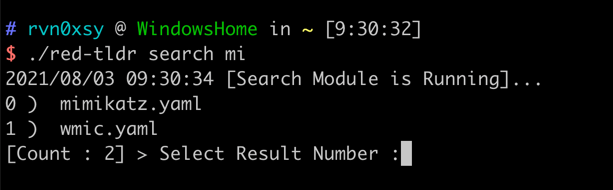
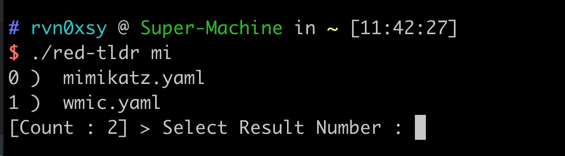
version 0.4.2

Changed region(s): [[0.0, 0.0, 0.9027, 1.0]]

diff --git a/utils/common.go b/utils/common.go
@@ -6,6 +6,8 @@ import (
 	"log"
 	"os"
 	"path"
+	"path/filepath"
+	"strings"
 )
 
 const (
@@ -14,13 +16,14 @@ const (
     ____/ o o \   For Red Team [TL;DR]
   /~____  =ø= /   Github @Rvn0xsy
  (______)__m_m)   Blog: https://payloads.online
-
+                  Version: 0.4.2
 ------------------------------------------------
 Thank you for Use https://github.com/Rvn0xsy/red-tldr`
 	configName = "config.toml"
 	databaseName = string(os.PathSeparator) + "db" + string(os.PathSeparator) + "db.json"
 	configDir = string(os.PathSeparator) + ".red-tldr" + string(os.PathSeparator)
 	databaseDir = string(os.PathSeparator) + "red-tldr-db" + string(os.PathSeparator)
+	DbFileSuffix = ".yaml"
 )
 
 
@@ -57,6 +60,20 @@ func GetDatabasePath()(databasePath string){
 		databasePath = path.Join(getHomeDir(), databaseDir)
 	}
 	return databasePath
+}
+
+
+func GetAllDataFile(path string) (fileList []string) {
+	filepath.Walk(path, func(path string, info os.FileInfo, err error) error {
+		if !info.IsDir() {
+			if strings.HasSuffix(path, DbFileSuffix){
+				fmt.Println(path)
+				fileList = append(fileList, path)
+			}
+		}
+		return nil
+	})
+	return fileList
 }
 
 func GetDatabaseFilePath()(configFilePath string){
@@ -114,7 +131,8 @@ func ShowBanner()  {
 func ShowHelp()  {
 	ShowBanner()
 	fmt.Println(`
-Modules:
-	search   [search Module]
-	update   [update database from github https://github.com/Rvn0xsy/red-tldr-db]`)
+Command:
+	<Keyword> [search keyword from database index]
+	update    [update database index]
+	upgrade   [update database from github https://github.com/Rvn0xsy/red-tldr-db]`)
 }

diff --git a/pkg/search.go b/pkg/search.go
@@ -4,7 +4,6 @@ import (
 	"encoding/json"
 	"fmt"
 	yaml "gopkg.in/yaml.v2"
-	"io/fs"
 	"io/ioutil"
 	"log"
 	"os"
@@ -12,14 +11,13 @@ import (
 	"strings"
 )
 
-
 var (
 	SearchDbDir = ""
 	SearchDbName = ""
 )
 
 func SetDbDir()  {
-	SearchDbDir = utils.GetDatabasePath() + string(os.PathSeparator) + "files"
+	SearchDbDir = utils.GetDatabasePath() + string(os.PathSeparator)
 	SearchDbName = utils.GetDatabaseFilePath()
 }
 
@@ -129,23 +127,18 @@ func UpdateDb()  {
 	DbStruct := new(SearchDbStruct)
 	utils.CheckErrorOnExit(err)
 	defer DbFile.Close()
-	fileList, err := ioutil.ReadDir(SearchDbDir)
-	utils.CheckErrorOnExit(err)
-	for _, fileName := range fileList {
-		if fileName.IsDir(){
-			continue
-		}
-		if strings.HasSuffix(fileName.Name(), ".yaml") {
-			func(file fs.FileInfo){
-				readFileName := SearchDbDir + utils.GetPathSeparator() +fileName.Name()
-				Data := getDataStruct(readFileName)
-				DbStruct.Data = append(DbStruct.Data,DataStruct{
-					Name: Data.Name,
-					Tags: Data.Tags,
-					File: fileName.Name(),
-				})
-			}(fileName)
-		}
+	fileList := utils.GetAllDataFile(SearchDbDir)
+	if len(fileList) == 0 {
+		return
+	}
+	for _,fileName := range fileList {
+			Data := getDataStruct(fileName)
+			dbFilename := strings.Replace(fileName, SearchDbDir, "", 1)
+			DbStruct.Data = append(DbStruct.Data,DataStruct{
+				Name: Data.Name,
+				Tags: Data.Tags,
+				File: dbFilename,
+			})
 	}
 	DbJsonData , err := json.Marshal(DbStruct)
 	utils.CheckErrorOnExit(err)

diff --git a/common/runner.go b/common/runner.go
@@ -4,38 +4,28 @@ import (
 	"log"
 	"os"
 	"red-tldr/pkg"
+	"red-tldr/utils"
 )
 
-func Runner(flagStruct * FlagStruct){
+func Runner(){
+	if len(os.Args) < 2{
+		utils.ShowHelp()
+		return
+	}
 	switch os.Args[1] {
-	case "search":
-		log.Println("[Search Module is Running]...")
-		defer log.Println("[Search Module is Done.]")
-		if flagStruct.SearchFlag.Update{
-			log.Println("[Search Module is Updating]...")
+		case "-h":
+			utils.ShowHelp()
+		case "update":
 			pkg.UpdateDb()
-		}else {
-			if len(os.Args) < 3 {
-				log.Println("[Search keyword not found]...")
-				break
-			}
-			fileList := pkg.SearchDB(pkg.SearchDbName,os.Args[2])
+		case "upgrade":
+			pkg.GetLatestReleaseFromGithub()
+			break
+		default:
+			fileList := pkg.SearchDB(pkg.SearchDbName,os.Args[1])
 			if len(fileList) == 0{
 				log.Println("[Search Module Not Found]...")
 				break
 			}
 			pkg.SelectOneResult(fileList)
 		}
-		break
-	case "update":
-		pkg.GetLatestReleaseFromGithub()
-		break
-	default:
-		fileList := pkg.SearchDB(pkg.SearchDbName,os.Args[1])
-		if len(fileList) == 0{
-			log.Println("[Search Module Not Found]...")
-			break
-		}
-		pkg.SelectOneResult(fileList)
-	}
 }

diff --git a/main.go b/main.go
@@ -27,7 +27,5 @@ func init() {
 }
 
 func main() {
-	var flagArgs common.FlagStruct
-	common.SetFlag(&flagArgs)
-	common.Runner(&flagArgs)
+	common.Runner()
 }

diff --git a/README.md b/README.md
@@ -53,7 +53,7 @@ $ ./red-tldr
 1. Keyword Search
 
 ```bash
-$ red-tldr search mimikatz
+$ red-tldr mimikatz
 ```
 
 ![search-mimikatz](./images/img_1.png)
@@ -61,7 +61,7 @@ $ red-tldr search mimikatz
 2. Fuzzy matching
 
 ```bash
-$ red-tldr search mi
+$ red-tldr mi
 ```
 
 ![Fuzzy-match](./images/img_2.png)
@@ -74,13 +74,13 @@ Select Number : 0
 3. Update index file
 
 ```bash
-$ red-tldr search update
+$ red-tldr update
 ```
 
 4. Update database file
 
 ```bash
-$ red-tldr update
+$ red-tldr upgrade
 ```
 
 ## Configuration file

diff --git a/README-zh.md b/README-zh.md
@@ -51,7 +51,7 @@ $ ./red-tldr
 1. 关键字搜索
 
 ```bash
-$ red-tldr search mimikatz
+$ red-tldr mimikatz
 ```
 
 ![search-mimikatz](./images/img_1.png)
@@ -59,7 +59,7 @@ $ red-tldr search mimikatz
 2. 模糊匹配
 
 ```bash
-$ red-tldr search mi
+$ red-tldr mi
 ```
 
 ![Fuzzy-match](./images/img_2.png)
@@ -74,13 +74,13 @@ Select Number : 0
 3. 更新索引文件
 
 ```bash
-$ red-tldr search update
+$ red-tldr update
 ```
 
 4. 更新数据库文件
 
 ```bash
-$ red-tldr update
+$ red-tldr upgrade
 ```
 
 
